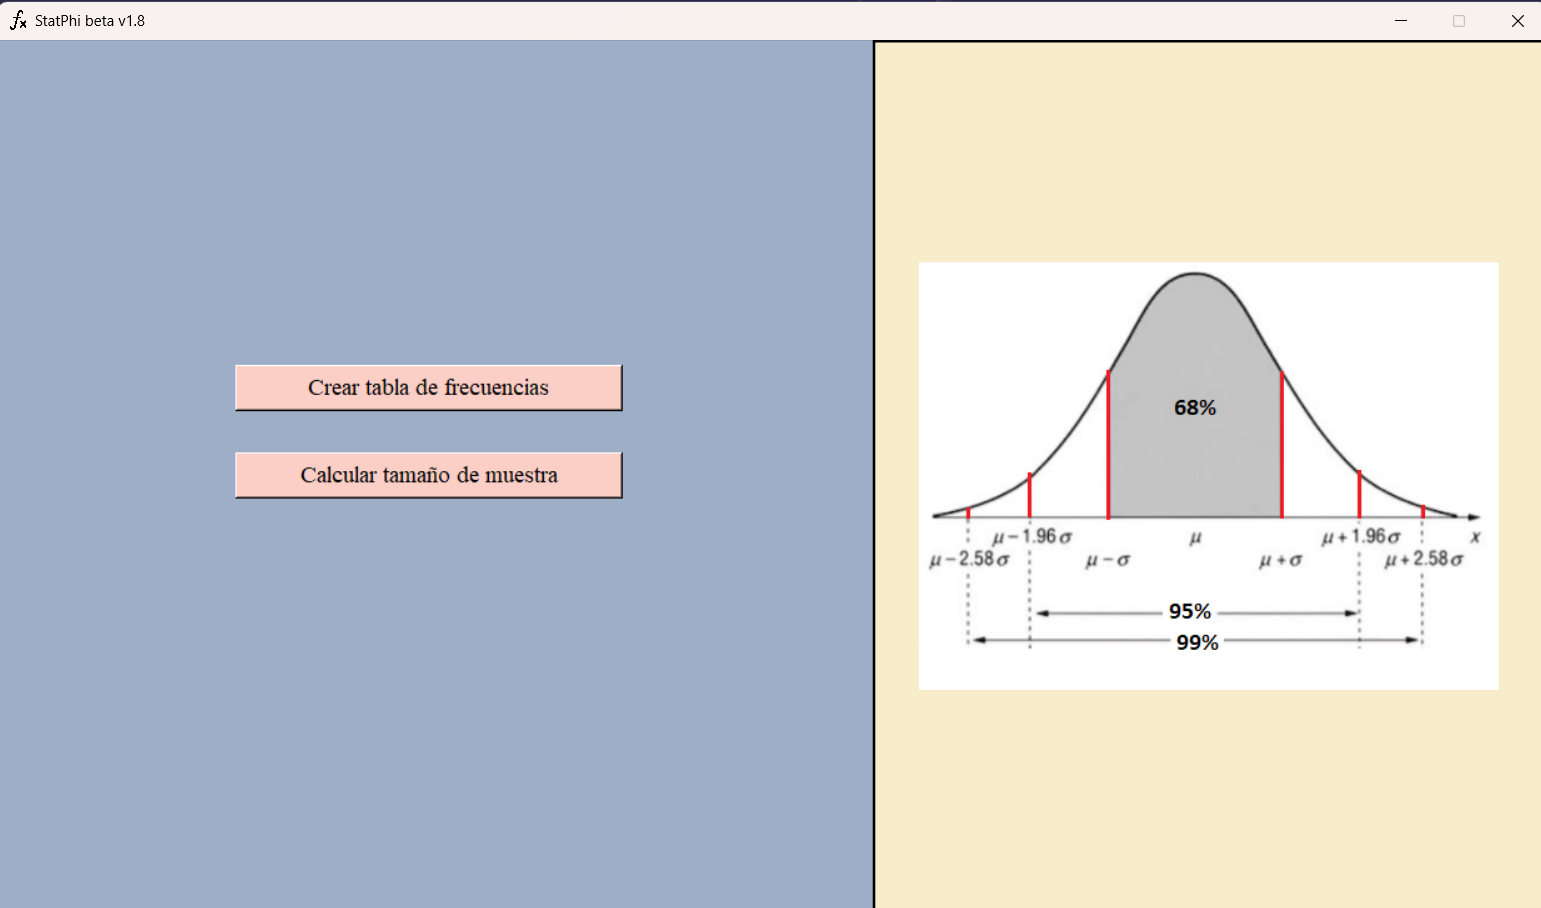
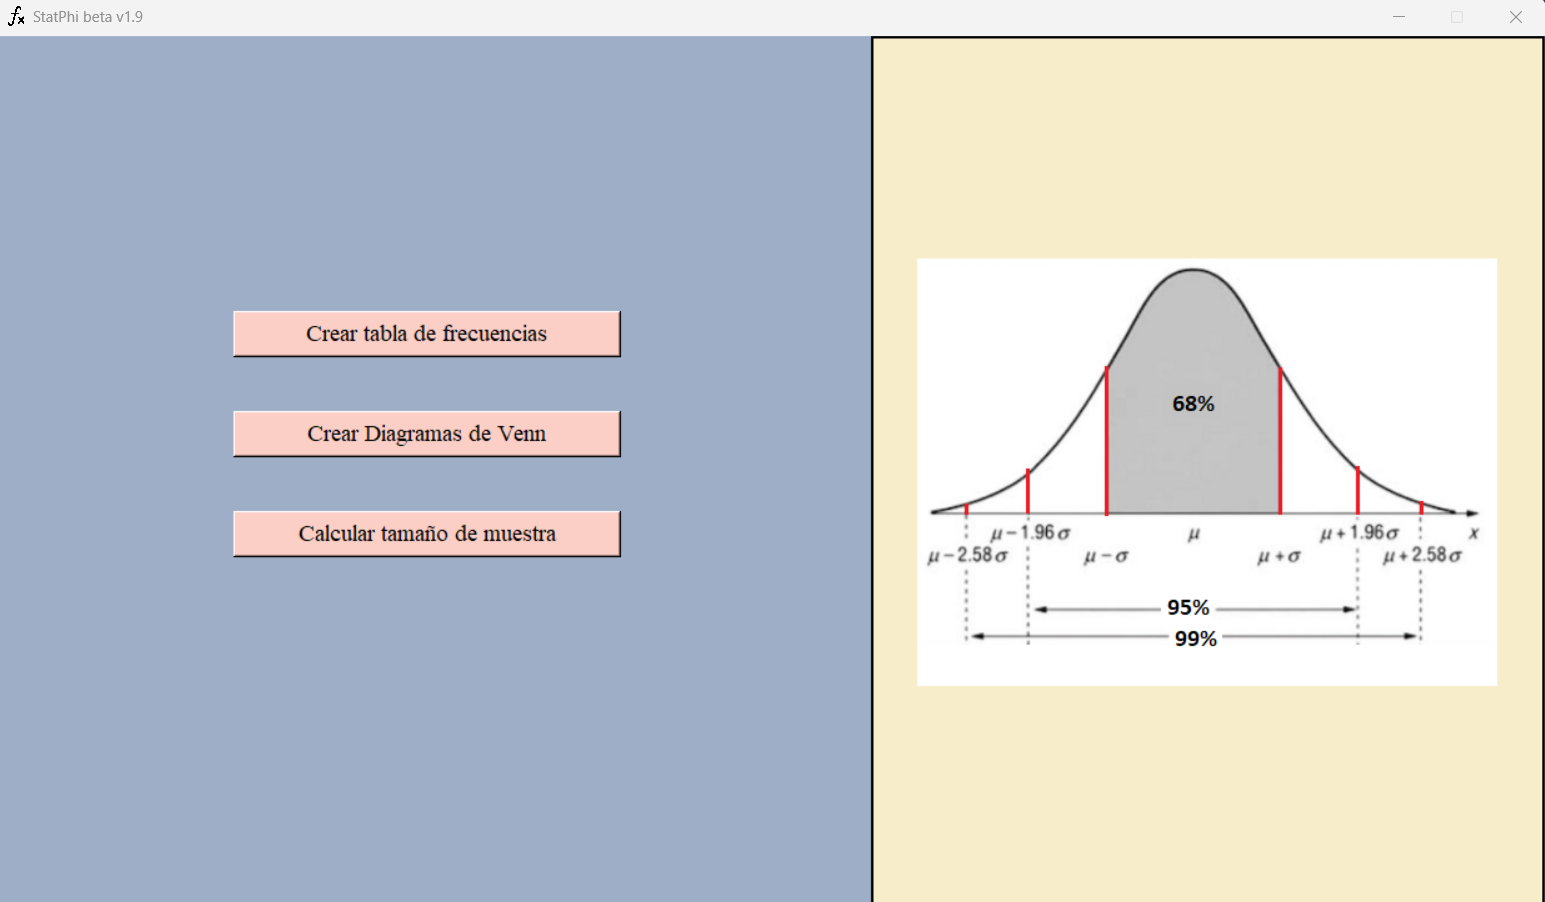
Modifica el README, añadiendo mas imagenes ilustrativas ademas de un pequeño manual de uso del programa.

diff --git a/README.md b/README.md
@@ -1,9 +1,9 @@
-# **StatPhi (Beta V1.8)**
+# **StatPhi (Beta V1.9)**
 [![Estado del Proyecto](https://img.shields.io/badge/Estado-En%20Desarrollo-blue)]()
 [![Licencia](https://img.shields.io/github/license/JunixOs/app_escritorio_estadistica)]()
 [![Última actualización](https://img.shields.io/github/commit-activity/w/JunixOs/app_escritorio_estadistica/develop)]()
 
-<div style="display:flex;justify-content:center;border-radius:50%;margin: 0 auto;">
+<div style="margin: 0 auto; width: 80%; text-align: center;">
     <img src="./Images/icon.png" alt="Logo de StatPhi" width="200" style=""></img>
 </div>
 <br>
@@ -15,30 +15,34 @@
 ## **Tabla de Contenidos**
 
 - [Descripcion](#descripcion)
-- [Licencia](#licencia)
+
 - [Caracteristicas](#features)
+
 - [Caracteristicas proximas](#features-to-add)
+
 - [Estructura del proyecto](#estructura-del-proyecto)
+
 - [Instalacion](#instalacion)
+
 - [Guia de Uso](#guia-de-uso)
 
----
-## Licencia
+- [Autor](#autor)
 
-Este proyecto está bajo la Licencia GNU GPLv3 - consulta el archivo [LICENSE](./LICENSE) para más detalles.
+- [Creditos](#creditos)
+
+- [Licencia](#licencia)
 
 ---
 
 ## Descripcion
 
-**StatPhi** es un programa desarrollado en el lenguaje de programacion `Python`, usando la libreria `tkinter` como base para desarrollar la UI, asi como la libreria `numpy`, `pandas`, `matplotlib` y `openpyxl` para los calculos, exportacion e importacion de archivos y datos.
+**StatPhi** es un programa desarrollado en el lenguaje de programacion `Python`, usando la libreria `tkinter` como base para desarrollar la UI, asi como las librerias `numpy` , `scipy`, `matplotlib`, `seaborn`, `venn`, `pandas` y `openpyxl` para los calculos, creacion de graficos e importacion y exportacion de archivos y datos.
 
-Este proyecto es el producto final del curso de ***Estadistica General*** correspondiente al ciclo ***2025-0*** el cual tiene por objetivo brindar una forma facil y amigable de calcular y analizar datos a personas que no estan familiarizadas con software avanzado como RStudio.
+Este proyecto es el producto final del curso de ***Estadistica General*** correspondiente al ciclo ***2025-0***, el objetivo principal del mismo es el de brindar una forma facil y amigable de calcular y analizar datos a personas que no estan familiarizadas con la programacion en lenguajes especializados para ese campo como `RStudio`.
 
 Con **StatPhi**, podras ingresar los datos obtenidos de una investigacion y obtener informacion relevante sobre esta, como la distribucion de frecuencias , graficos y medidas de resumen. 
  
-Tienes la posibilidad de ingresar datos por tu cuenta, o de importarlos de un archivo `.xlsx` (Excel) externo.
-Al importar multiples columnas de un archivo `.xlsx` y al calcular la tabla de frecuencias y las medidas de resumen de cada una, tendras la posibilidad de visualizar los resultados por separado, ademas de que podras exportar solo las tablas y los graficos que consideres necesarios.
+Si ingresar los datos de manera manual es un problema, o si tienes que analizar varios conjuntos de datos de golpe, tienes la posibilidad de importarlos de un archivo `.xlsx` (Excel) externo.
 
 ---
 
@@ -47,12 +51,12 @@ Al importar multiples columnas de un archivo `.xlsx` y al calcular la tabla de f
 ![Ventana Principal](./Images/DEMO/Principal_StatPhi.png)
 
 ### ***Crear Tabla de Frecuencias***
-![Ventana Calcular Tabla de Frecuencias](./Images/DEMO/Calc_Table_Frecuences_DEMO_1.png)
+![Ventana Calcular Tabla de Frecuencias](./Images/DEMO/Table_Of_Frecuency/Calc_Table_Frecuences_DEMO_1.png)
 <div style="margin: 0 auto; width: 80%; text-align: center;">
-    <h3 style="font-size:14px;font-style:italic;">Variables Cuantitativas</h3>
+    <h3 style="font-size:14px;font-style:italic;">Variables Cuantitativas Agrupadas en Intervalos</h3>
     <div style="display:flex; flex-wrap:wrap; gap:15px; justify-content:center; margin-bottom:20px;">
-        <img src="./Images/DEMO/Calc_Table_Frecuences_DEMO_2_Cuantitative_Table.png" alt="Calculo con Variables Cuantitativas" width="200">
-        <img src="./Images/DEMO/Calc_Table_Frecuences_DEMO_2_Cuantitative_Graph.png" alt="Grafico de las Frecuencias Obtenidas" width="200">
+        <img src="./Images/DEMO/Table_Of_Frecuency/Cuantitative_Grouped/Table_Frecuences.png" alt="Calculo con Variables Cuantitativas Agrupadas en Intervalos" width="200">
+        <img src="./Images/DEMO/Table_Of_Frecuency/Cuantitative_Grouped/Calc_Table_Frecuences_Graph.png" alt="Grafico de las Frecuencias Obtenidas" width="200">
     </div>
     <table style="margin: 0 auto; border-collapse: collapse; width: 80%; text-align: center;">
         <tr>
@@ -63,17 +67,38 @@ Al importar multiples columnas de un archivo `.xlsx` y al calcular la tabla de f
             <th>Grafico de Cajas</th>
         </tr>
         <tr>
-            <td><img src="./Images/DEMO/Calc_Table_Frecuences_DEMO_2_Cuantitative_Graph_fi.png" alt="Grafico de Barras fi para Variables Cuantitativas" width="100%"></td>
-            <td><img src="./Images/DEMO/Calc_Table_Frecuences_DEMO_2_Cuantitative_Graph_hi.png" alt="Grafico de Barras hi para Variables Cuantitativas" width="100%"></td>
-            <td><img src="./Images/DEMO/Calc_Table_Frecuences_DEMO_2_Cuantitative_Graph_hi_percent.png" alt="Grafico de Barras hi% para Variables Cuantitativas" width="100%"></td>
-            <td><img src="./Images/DEMO/Calc_Table_Frecuences_DEMO_2_Cuantitative_Graph_Pie.png" alt="Grafico de Pastel para Variables Cuantitativas" width="100%"></td>
-            <td><img src="./Images/DEMO/Calc_Table_Frecuences_DEMO_2_Cuantitative_Graph_Box.png" alt="Grafico de Cajas para Variables Cuantitativas" width="100%"></td>
+            <td><img src="./Images/DEMO/Table_Of_Frecuency/Cuantitative_Grouped/Calc_Table_Frecuences_Graph_fi.png" alt="Grafico de Barras fi para Variables Cuantitativas Agrupadas en Intervalos" width="100%"></td>
+            <td><img src="./Images/DEMO/Table_Of_Frecuency/Cuantitative_Grouped/Calc_Table_Frecuences_Graph_hi.png" alt="Grafico de Barras hi para Variables Cuantitativas Agrupadas en Intervalos" width="100%"></td>
+            <td><img src="./Images/DEMO/Table_Of_Frecuency/Cuantitative_Grouped/Calc_Table_Frecuences_Graph_hi_percent.png" alt="Grafico de Barras hi% para Variables Cuantitativas Agrupadas en Intervalos" width="100%"></td>
+            <td><img src="./Images/DEMO/Table_Of_Frecuency/Cuantitative_Grouped/Calc_Table_Frecuences_Graph_Pie.png" alt="Grafico de Pastel para Variables Cuantitativas Agrupadas en Intervalos" width="100%"></td>
+            <td><img src="./Images/DEMO/Table_Of_Frecuency/Cuantitative_Grouped/Calc_Table_Frecuences_Graph_Box.png" alt="Grafico de Cajas para Variables Cuantitativas Agrupadas en Intervalos" width="100%"></td>
+        </tr>
+    </table>
+    <h3 style="font-size:14px;font-style:italic;">Variables Cuantitativas Sin Agrupar en Intervalos</h3>
+    <div style="display:flex; flex-wrap:wrap; gap:15px; justify-content:center; margin-bottom:20px;">
+        <img src="./Images/DEMO/Table_Of_Frecuency/Cuantitative_Not_Grouped/Table_Frecuences.png" alt="Calculo con Variables Cuantitativas Sin Agrupar en Intervalos" width="200">
+        <img src="./Images/DEMO/Table_Of_Frecuency/Cuantitative_Not_Grouped/Calc_Table_Frecuences_Graph.png" alt="Grafico de las Frecuencias Obtenidas" width="200">
+    </div>
+    <table style="margin: 0 auto; border-collapse: collapse; width: 80%; text-align: center;">
+        <tr>
+            <th>Grafico de Barras para fi</th>
+            <th>Grafico de Barras para hi</th>
+            <th>Grafico de Barras para hi%</th>
+            <th>Grafico de Pastel</th>
+            <th>Grafico de Cajas</th>
+        </tr>
+        <tr>
+            <td><img src="./Images/DEMO/Table_Of_Frecuency/Cuantitative_Not_Grouped/Calc_Table_Frecuences_Graph_fi.png" alt="Grafico de Barras fi para Variables Cuantitativas Sin Agrupar en Intervalos" width="100%"></td>
+            <td><img src="./Images/DEMO/Table_Of_Frecuency/Cuantitative_Not_Grouped/Calc_Table_Frecuences_Graph_hi.png" alt="Grafico de Barras hi para Variables Cuantitativas Sin Agrupar en Intervalos" width="100%"></td>
+            <td><img src="./Images/DEMO/Table_Of_Frecuency/Cuantitative_Not_Grouped/Calc_Table_Frecuences_Graph_hi_percent.png" alt="Grafico de Barras hi% para Variables Cuantitativas Sin Agrupar en Intervalos" width="100%"></td>
+            <td><img src="./Images/DEMO/Table_Of_Frecuency/Cuantitative_Not_Grouped/Calc_Table_Frecuences_Graph_Pie.png" alt="Grafico de Pastel para Variables Cuantitativas Sin Agrupar en Intervalos" width="100%"></td>
+            <td><img src="./Images/DEMO/Table_Of_Frecuency/Cuantitative_Not_Grouped/Calc_Table_Frecuences_Graph_Box.png" alt="Grafico de Cajas para Variables Cuantitativas Sin Agrupar en Intervalos" width="100%"></td>
         </tr>
     </table>
     <h3 style="font-size:14px;font-style:italic;">Variables Cualitativas</h3>
     <div style="display:flex; flex-wrap:wrap; gap:15px; justify-content:center; margin-bottom:20px;">
-        <img src="./Images/DEMO/Calc_Table_Frecuences_DEMO_2_Cualitative_Table.png" alt="Calculo con Variables Cualitativas" width="200">
-        <img src="./Images/DEMO/Calc_Table_Frecuences_DEMO_2_Cualitative_Graph.png" alt="Grafico de las Frecuencias Obtenidas" width="200">
+        <img src="./Images/DEMO/Table_Of_Frecuency/Cualitative/Table_Frecuences.png" alt="Calculo con Variables Cualitativas" width="200">
+        <img src="./Images/DEMO/Table_Of_Frecuency/Cualitative/Calc_Table_Frecuences_Graph.png" alt="Grafico de las Frecuencias Obtenidas" width="200">
     </div>
     <table style="margin: 0 auto; border-collapse: collapse; width: 80%; text-align: center;">
         <tr>
@@ -83,34 +108,48 @@ Al importar multiples columnas de un archivo `.xlsx` y al calcular la tabla de f
             <th>Grafico de Pastel</th>
         </tr>
         <tr>
-            <td><img src="./Images/DEMO/Calc_Table_Frecuences_DEMO_2_Cualitative_Graph_fi.png" alt="Grafico de Barras fi para Variables Cualitativas" width="100%"></td>
-            <td><img src="./Images/DEMO/Calc_Table_Frecuences_DEMO_2_Cualitative_Graph_hi.png" alt="Grafico de Barras hi para Variables Cualitativas" width="100%"></td>
-            <td><img src="./Images/DEMO/Calc_Table_Frecuences_DEMO_2_Cualitative_Graph_hi_percent.png" alt="Grafico de Barras hi% para Variables Cualitativas" width="100%"></td>
-            <td><img src="./Images/DEMO/Calc_Table_Frecuences_DEMO_2_Cualitative_Graph_Pie.png" alt="Grafico de Pastel para Variables Cualitativas" width="100%"></td>
+            <td><img src="./Images/DEMO/Table_Of_Frecuency/Cualitative/Calc_Table_Frecuences_Graph_fi.png" alt="Grafico de Barras fi para Variables Cualitativas" width="100%"></td>
+            <td><img src="./Images/DEMO/Table_Of_Frecuency/Cualitative/Calc_Table_Frecuences_Graph_hi.png" alt="Grafico de Barras hi para Variables Cualitativas" width="100%"></td>
+            <td><img src="./Images/DEMO/Table_Of_Frecuency/Cualitative/Calc_Table_Frecuences_Graph_hi_percent.png" alt="Grafico de Barras hi% para Variables Cualitativas" width="100%"></td>
+            <td><img src="./Images/DEMO/Table_Of_Frecuency/Cualitative/Calc_Table_Frecuences_Graph_Pie.png" alt="Grafico de Pastel para Variables Cualitativas" width="100%"></td>
         </tr>
     </table>
     <h3 style="font-size:14px;font-style:italic;">Datos Importados de un Excel</h3>
-    <img src="./Images/DEMO/Calc_Table_Frecuences_DEMO_3_ImportDataFromExcel.png" alt="Ventana de Importacion de Datos de un Excel" style="margin-bottom:20px;">
+    <img src="./Images/DEMO/Table_Of_Frecuency/Imported_Data_From_Excel/Calc_Table_Frecuences_Window_Import_Excel.png" alt="Ventana de Importacion de Datos de un Excel" style="margin-bottom:20px;">
     <div style="display:flex; flex-wrap:wrap; gap:15px; justify-content:center; margin-bottom:20px;">
-        <img src="./Images/DEMO/Calc_Table_Frecuences_DEMO_3_ImportDataFromExcel_Prev.png" alt="Previsualizacion de un Excel" width="200">
-        <img src="./Images/DEMO/Calc_Table_Frecuences_DEMO_3_ImportDataFromExcel_Import.png" alt="Importar Datos de un Excel" width="200">
-        <img src="./Images/DEMO/Calc_Table_Frecuences_DEMO_3_ImportDataFromExcel_Table.png" alt="Tabla Para Multiples Variables de un Excel" width="200">
-        <img src="./Images/DEMO/Calc_Table_Frecuences_DEMO_3_ImportDataFromExcel_Graph.png" alt="Grafico Para Multiples Variables de un Excel" width="200">
+        <img src="./Images/DEMO/Table_Of_Frecuency/Imported_Data_From_Excel/Calc_Table_Frecuences_Excel_Prev.png" alt="Previsualizacion de un Excel" width="200">
+        <img src="./Images/DEMO/Table_Of_Frecuency/Imported_Data_From_Excel/Calc_Table_Frecuences_Sucess_Import.png" alt="Importar Datos de un Excel" width="200">
+        <img src="./Images/DEMO/Table_Of_Frecuency/Imported_Data_From_Excel/Table_Frecuences.png" alt="Tabla Para Multiples Variables de un Excel" width="200">
+        <img src="./Images/DEMO/Table_Of_Frecuency/Imported_Data_From_Excel/Calc_Table_Frecuences_Graph.png" alt="Grafico Para Multiples Variables de un Excel" width="200">
     </div>
 </div>
 
 ---
 
+### ***Crear Diagramas de Venn***
+![Ventana Crear Diagramas de Venn](./Images/DEMO/Venn_Diagram/Calc_Venn_Diagram_DEMO_1.png)
+---
+<table style="margin: 0 auto;">
+    <tr>
+        <th>Para datos ingresadas manualmente</th>
+        <th>Para datos importadas de un excel</th>
+    </tr>
+    <tr>
+        <td><img src="./Images/DEMO/Venn_Diagram/Calc_Venn_Diagram_DEMO_2_Data_From_Input.png" alt="Crear diagrama de Venn para datos ingresadas manualmente"></img></td>
+        <td><img src="./Images/DEMO/Venn_Diagram/Calc_Venn_Diagram_DEMO_2_Imported_Data_Diagram.png" alt="Crear diagrama de Venn para datos importadas de un excel"></img></td>
+    </tr>
+</table>
+
 ### ***Calcular Tamaño de Muestra***
-![Ventana Calcular Tamaño de Muestra](./Images/DEMO/MAS_Calc_DEMO_1.png)
+![Ventana Calcular Tamaño de Muestra](./Images/DEMO/MAS/MAS_Calc_DEMO_1.png)
 <table style="margin: 0 auto;">
     <tr>
         <th>Calculo de Tamaño de Muestra para una Poblacion Finita</th>
         <th>Calculo de Tamaño de Muestra para una Poblacion Infinita</th>
     </tr>
     <tr>
-        <td><img src="./Images/DEMO/MAS_Calc_DEMO_2_Finite_Population.png" alt="Calculo de Tamaño de Muestra para una Poblacion Finita"></img></td>
-        <td><img src="./Images/DEMO/MAS_Calc_DEMO_2_Infinite_Population.png" alt="Calculo de Tamaño de Muestra para una Poblacion Infinita"></img></td>
+        <td><img src="./Images/DEMO/MAS/MAS_Calc_DEMO_2_Finite_Population.png" alt="Calculo de Tamaño de Muestra para una Poblacion Finita"></img></td>
+        <td><img src="./Images/DEMO/MAS/MAS_Calc_DEMO_2_Infinite_Population.png" alt="Calculo de Tamaño de Muestra para una Poblacion Infinita"></img></td>
     </tr>
 </table>
 
@@ -118,38 +157,42 @@ Al importar multiples columnas de un archivo `.xlsx` y al calcular la tabla de f
 
 ## **Caracteristicas**
 Algunas caracteristicas importantes de StatPhi son:
-* Trabaja con variables cuantitativas y cualitativas.
+* Interfaz sencilla y amigable.
 
-* Posibilidad de importar datos de un archivo Excel (.xlsx) externo, correspondientes a una o varias columnas.
+* Calculo de tablas de frecuencias usando variables cualitativas y cuantitativas, con la posibilidad de agrupar los datos cuantitativos en intervalos.
 
-* Obten un archivo Excel con las tablas de frecuencias generada.
+* Generacion de un archivo Excel con la tabla de frecuencias generada.
 
-* Muestra un grafico sobre la distribucion de frecuencias.
+* Generacion de graficos para la distribucion de frecuencias en baja o alta calidad (hasta 2000 DPI).
 
-* Obten las imagenes de los graficos en baja o alta calidad (hasta 1200 DPI).
+* Carga de datos de un archivo excel externo.
+
+* Calculo de diagramas de Venn.
+
+* Calculo de tamaño de muestra por medio del Muestreo Aleatorio Simple (M.A.S.).
 
 ---
 
 ## **Caracteristicas proximas**
-- [x] Posibilidad de importar multiples columnas de un Excel.
+✅ Posibilidad de importar datos de un Excel.
 
-- [x] Calculo de cuantiles.
+✅ Calculo de cuantiles.
 
-- [x] Visualizacion de grafico de cajas.
+✅ Visualizacion de grafico de frecuencias.
 
-- [ ] Creacion de Diagramas de Venn.
+✅ Creacion de Diagramas de Venn.
 
-- [ ] Creacion y exportacion de multiples graficos en una sola imagen.
+⬜ Creacion y exportacion de multiples graficos en una sola imagen.
 
-- [ ] Importacion de datos de archivos .csv .txt .sql
+⬜ Importacion de datos de archivos .csv .txt .sql
 
-- [ ] Implementacion de librerias para acelerar la importacion y analisis de miles de datos.
+⬜ Implementacion de librerias para acelerar la importacion y analisis de miles de datos.
 
 
 ---
 
 ## **Estructura del proyecto**
-El proyecto tiene la siguiente estructura de carpetas
+El proyecto tiene la siguiente estructura de carpetas:
 ```bash
 Statphi/
 ├── Calcs/
@@ -169,14 +212,13 @@ Statphi/
 │   │   │   ├── Calc_Bar_Pie_Graphs.py
 │   │   │   ├── Calc_Boxplot.py
 │   │   │   └── Calc_Multiple_Graphs.py
-│   │   ├── Quantiles/
-│   │   │   └── Quantil.py
 │   │   ├── Summary_Measures/
 │   │   │   ├── Calc_For_Grouped_Data.py
 │   │   │   └── Calc_For_Not_Grouped_Data.py
 │   │   └── Calc_Values_Tables.py
 │   ├── Venn/
-│   │   └── Calc_Venn_Diagram.py
+│   │   ├── Calc_Venn_Diagram.py
+│   │   └── Export_Venn_Diagram.py
 │   └── Center_Window.py
 ├── Exceptions/
 │   └── Exception_Warning.py
@@ -193,7 +235,8 @@ Statphi/
 │   │   ├── Window_Export_Graph.py
 │   │   └── Window_Show_Graph.py
 │   ├── Venn_Diagram/
-│   │   └── Window_Create_Venn_Diagram.py
+│   │   ├── Window_Create_Venn_Diagram.py
+│   │   └── Window_Export_Venn_Diagram.py
 │   ├── Main_Window.py
 │   ├── Window_Create_Multiple_Graphs.py
 │   ├── Window_Import_Excel.py
@@ -214,7 +257,7 @@ Por el momento, no esta disponible un ejecutable que facilite su instalacion y u
 - El sistema de control de versiones de `git`.
 
 ### ***Librerias Necesarias***
-Ademas, deberas contar con las siguientes librerias de **python** (puedes usar `pip` o `conda`),
+Ademas, deberas contar con las siguientes librerias de **python**:
 1. `tkinter`
 2. `pandas 2.2.3`
 3. `matplotlib 3.10.0`
@@ -283,7 +326,7 @@ En la pantalla de inicio te encontraras con dos botones, uno para dirigirte a la
 
 Aqui te encontraras con los siguientes elementos:
 - **Campo de texto**: 
-    Aqui puedes ingresar datos de manera manual, para un calculo correcto y sin errores, asegurate de separar cada uno de los datos por un espacio y de usar puntos decimales en lugar de comas.
+    Aqui puedes ingresar datos de manera manual, para un calculo correcto y sin errores, asegurate de separar cada uno de los datos por un espacio y de usar puntos decimales en lugar de comas. Por favor, use este campo solo para introducir pocos valores, de lo contrario el programa se congelara. Si desea introducir muchos datos es recomendable importarlos de un excel.
 
 - **Precision**:
     Permite ajustar la cantidad de decimales que se mostraran en valores como las Medidas de Resumen , los Quantiles , Deciles , Percentiles , la Frecuencia Relativa (hi) , la Frecuencia Relativa Acumulada (Hi) y sus respectivos valores porcentuales (hi% y Hi%).
@@ -306,11 +349,12 @@ Aqui te encontraras con los siguientes elementos:
 > [!WARNING]
 > Evite ingresar rangos de celdas como A1:C1001;B1:D1001.
 
-> [!CAUTION]
-> Dentro del Excel con los datos a importar, asegurese de que el formato de los datos sea correcto, que cada columna de datos cuente un nombre y que los datos se encuentren en la primera fila.
+> [!INFO]
+> Para evitar errores de importacion, por favor asegurese de que el formato de los datos sea el adecuado, que no existan celdas vacias dentro del rango de celdas a exportar y que todo tu dataset se encuentre en la primera fila del excel.
 
-- **Exportar Tabla a Excel**: Esta opcion es util cuando quieres tener algo mas estetico y personalizable que el cuadro que se muestra en el programa.
+- **Calcular Tabla**: Una vez que hayas introducido los datos manualmente o que los hayas importado de un excel, podras calcular la tabla de frecuencias junto con las demas medidas de resumen. 
 
+- **Exportar Tabla a Excel**: Esta opcion es util cuando quieres tener algo mas estetico y personalizable que el cuadro que se muestra en el programa. Si tuvieras varias tablas de frecuencias, puedes seleccionar cuales exportar marcando su casilla correspondiente.
 
 - **Mostrar Grafico**:
     Ofrece la posibilidad de ver los graficos para la tabla de frecuencias actual. Los graficos que podras ver son:
@@ -359,7 +403,21 @@ Aqui te encontraras con los siguientes elementos:
 ---
 
 #### ***Calculo de Diagramas de Venn***
-Esta caracteristica todavia esta en desarrollo
+Aqui te encontraras con los siguientes elementos:
+- **Campos de texto**: Aqui puedes introducir los datos correspondientes a cada conjunto, el nombre de cada conjunto va de A hasta F, solo se pueden ingresar como maximo datos para 6 conjuntos. Si se cuenta con muchos datos es mejor importarlos de un excel y no importarlos manualmente ya que podria congelar el programa.
+
+- **Importar Datos de un Excel**: Permite importar datos de una o varias columnas de un archivo `.xlsx` externo. Su funcionamiento es similar a la detallada en el apartado `Calculo de Tablas de Frecuencias`, con la unica diferencia de que solo podras importar de 2 a 6 columnas de datos.
+
+- **Generar diagrama**: Una vez que hayas introducido los datos manualmente o que los hayas importado de un excel, podras generar el diagrama de Venn.
+
+- **Exportar grafico**: Permite exportar los graficos a su computadora, para que puedan ser usados en documentos de Word, PDF, entre otros. Dentro de esta ventana encontraras los siguientes elementos:
+    - ***Nombre de la imagen***:
+
+    - ***Ruta de exportacion***
+
+    - ***Resolucion (DPI)***: Las resoluciones disponibles son de 72 , 96 , 150 , 300 , 600 , 1200 y 2000 DPI, todas cumpliendo las mismas caracteristicas detalladas en `Exportar Graficos` dentro del apartado de  `Calculo de Tablas de Frecuencia`.
+
+    - ***Titulo para el diagrama de Venn***: Permite colocar un titulo que describa mejor el grafico a exportar. Si no se coloca uno, el grafico se exportara sin un titulo.
 
 ---
 
@@ -369,14 +427,34 @@ Aqui te encontraras con los siguientes elementos:
 
 - **Poblacion (N)**: Si la poblacion a añalizar es finita, podras ingresar el tamaño de la poblacion del cual se calculara el tamaño de muestra.
 
-- **Nivel de Confianza (1 - α)**:
+- **Nivel de Confianza (1 - α)**: Corresponde al valor crítico de la distribución normal estándar que se utiliza para calcular el intervalo de confianza.
 
-- **Probabilidad de Exito (p)**:
+- **Probabilidad de Exito (p)**: Proporción estimada de la población con una característica específica (si no se conoce, se puede asumir 0.5 para maximizar la muestra).
 
-- **Error (e)**:
+- **Error (e)**: Margen de error permitido.
 
-- **Muestreo Inicial (n_o)**: Resulta de aplicar la formula de Muestreo Aleatorio Simple, para poblaciones grandes este valor puede ser proporcionalmente grande, y brinda un tamaño de muestra aproximado en donde los parametros de la investigacion se cumplan. 
+- **Muestreo Inicial (n_o)**: Resulta de aplicar la formula de Muestreo Aleatorio Simple (para poblaciones finitas o conocidas), para poblaciones grandes este valor puede ser proporcionalmente grande, brindando un tamaño de muestra aproximado. 
 
-- **Muestreo Final Corregido (n_f)**: Es el resultado de divir el Muestreo Inicial entre 1 mas el Factor de Correccion el cual es igual al Muestreo Inicial sobre el tamaño de la poblacion. Este valor proporciona un tamaño de poblacion mas razonable comparado con el tamaño del Muestreo Inicial en donde los parametros de la investigacion se cumplan.
+- **Muestreo Final Corregido (n_f)**: Es el resultado de dividir el Muestreo Inicial entre 1 mas el Factor de Correccion el cual es igual al Muestreo Inicial sobre el tamaño de la poblacion. Este valor proporciona un tamaño de poblacion mas razonable comparado con el tamaño del Muestreo Inicial. Este valor solo es calculable con un tamaño de muestra finita o conocida.
+
+---
+
+## **Autor**
+Programa desarrollado por [JunixOs](https://github.com/JunixOs)
+
+---
+
+## **Creditos**
+- Asesoramiento en temas de Estadistica de `Bremudez Pino, Wilmer Julio`. Contacto: `+51 952 846 248`.
+
+- Asesoramiento en el codigo, estructura del proyecto y uso de gitflow de [paultb3](https://github.com/paultb3).
+
+- Codigos para la importacion de datos de un excel, creacion de graficos de frecuencias y calculo de tamaño de muestra por M.A.S. extraidos y adaptados de los repositorios de [paultb3](https://github.com/paultb3).
+
+---
+
+## **Licencia**
+
+Este proyecto está bajo la Licencia GNU GPLv3 - consulta el archivo [LICENSE](./LICENSE) para más detalles.
 
 ---
